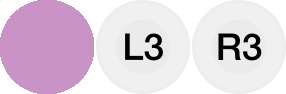
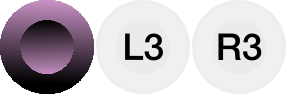
Add files via upload

Changed region(s): [[0.0, 0.0851, 0.3357, 1.0], [0.1119, 0.0, 0.1399, 0.0213], [0.0839, 0.0213, 0.1119, 0.0426]]

diff --git a/Controllers/cheery/style.css b/Controllers/cheery/style.css
@@ -1,0 +1,86 @@
+/*BEGIN PS4 Controller Styling*/
+.controller.ds4 {
+    background: url(cheerybase.gif);
+    height: 598px;
+    width: 806px;
+    /*    margin-left: -403px;
+        margin-top: -280px;*/
+}
+
+.ds4 .abxy {
+    position: absolute;
+    width: 170px;
+    height: 171px;
+    top: 159px;
+    left: 567px;
+}
+
+.ds4 .button {
+    position: absolute;
+    width: 55px;
+    height: 55px;
+    background: url(cheerybuttons.png);
+}
+
+.ds4 .button.pressed {
+    background-position-y: 55px;
+    /* margin-top: 5px; */
+}
+
+.ds4 .a {
+    background-position: 0 0;
+    bottom: 0;
+    left: 58px;
+}
+
+.ds4 .b {
+    background-position: -57px 0;
+    top: 58px;
+    right: 0px;
+}
+
+.ds4 .x {
+    background-position: -113px 0;
+    top: 58px;
+}
+
+.ds4 .y {
+    background-position: 55px 0;
+    left: 58px;
+}
+
+.ds4 .sticks {
+    position: absolute;
+    width: 361px;
+    height: 105px;
+    top: 308px;
+    left: 228px;
+}
+
+.ds4 .stick {
+    position: absolute;
+    background: url(cheerysticks.png);
+    height: 94px;
+    width: 94px;
+}
+
+.ds4 .stick.pressed.left {
+    background-position-x: -96px;
+}
+
+.ds4 .stick.pressed.right {
+    background-position-x: -192px;
+}
+
+.ds4 .stick.left {
+    top: 0;
+    left: 0;
+}
+
+.ds4 .stick.right {
+    top: calc(100% - 105px);
+    left: calc(100% - 105px);
+}
+
+/*END PS4 Controller Styling*/
+© 2021 GitHub, Inc.
